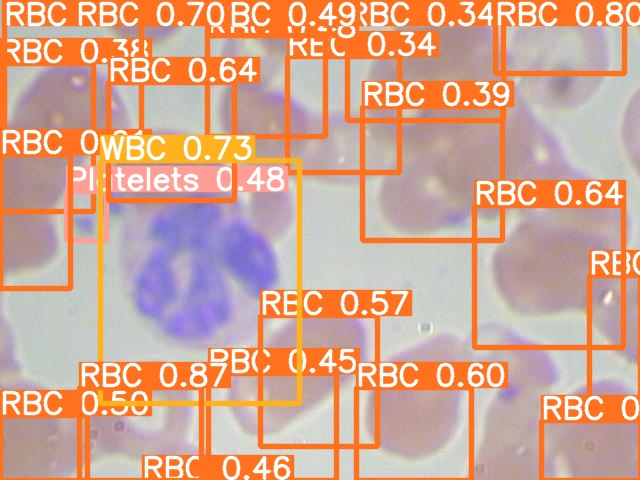
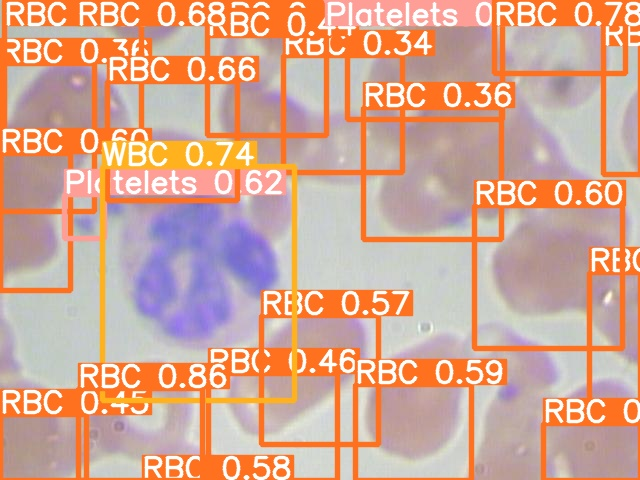
process my int8 inference

diff --git a/int8_inference.py b/int8_inference.py
@@ -306,7 +306,7 @@ def my_letterbox_tensorrt_predict(img_file, engine_file, image_output_file):
 
 if __name__ == '__main__':
     # model_path = r"/data/kile/202204/yolov5/log/2.engine"
-    engine_file = "./model/trt/cell_int8_process.engine"
+    engine_file = "./model/trt/cell_fp16.engine"
     img_file = './data/1.jpg'
     save_image_file_1 = './runs/hxx/test_1.jpg'
     save_image_file_2 = './runs/hxx/test_2.jpg'
